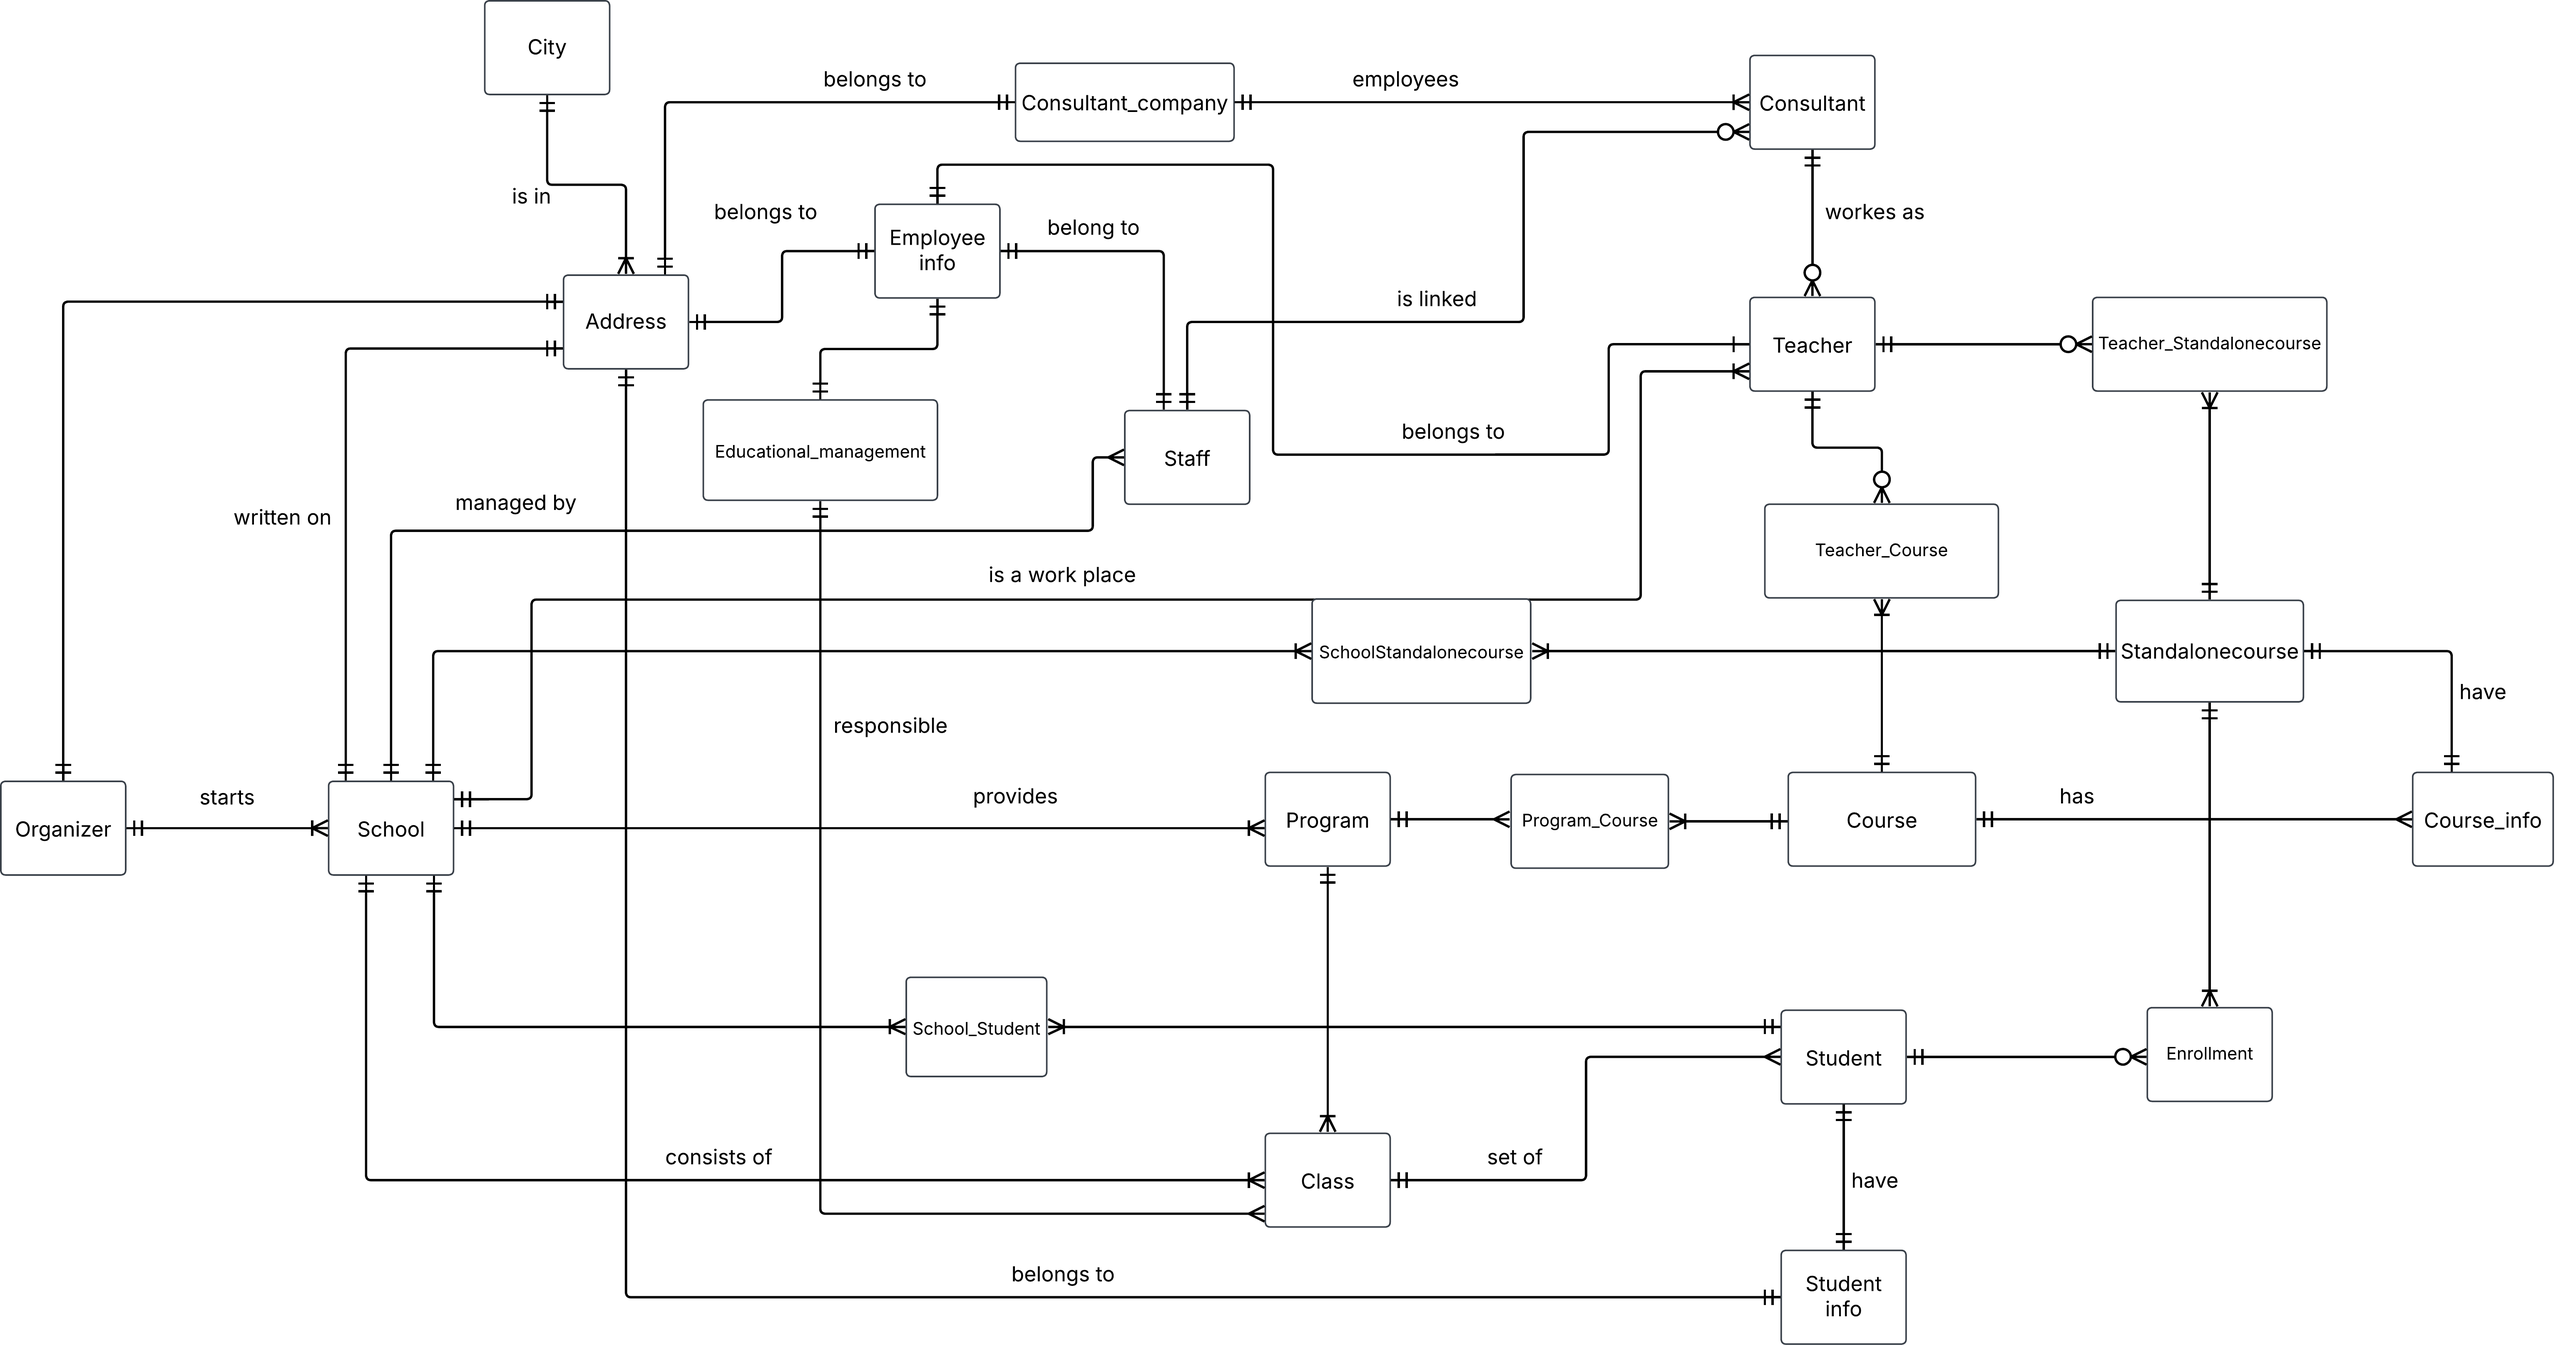
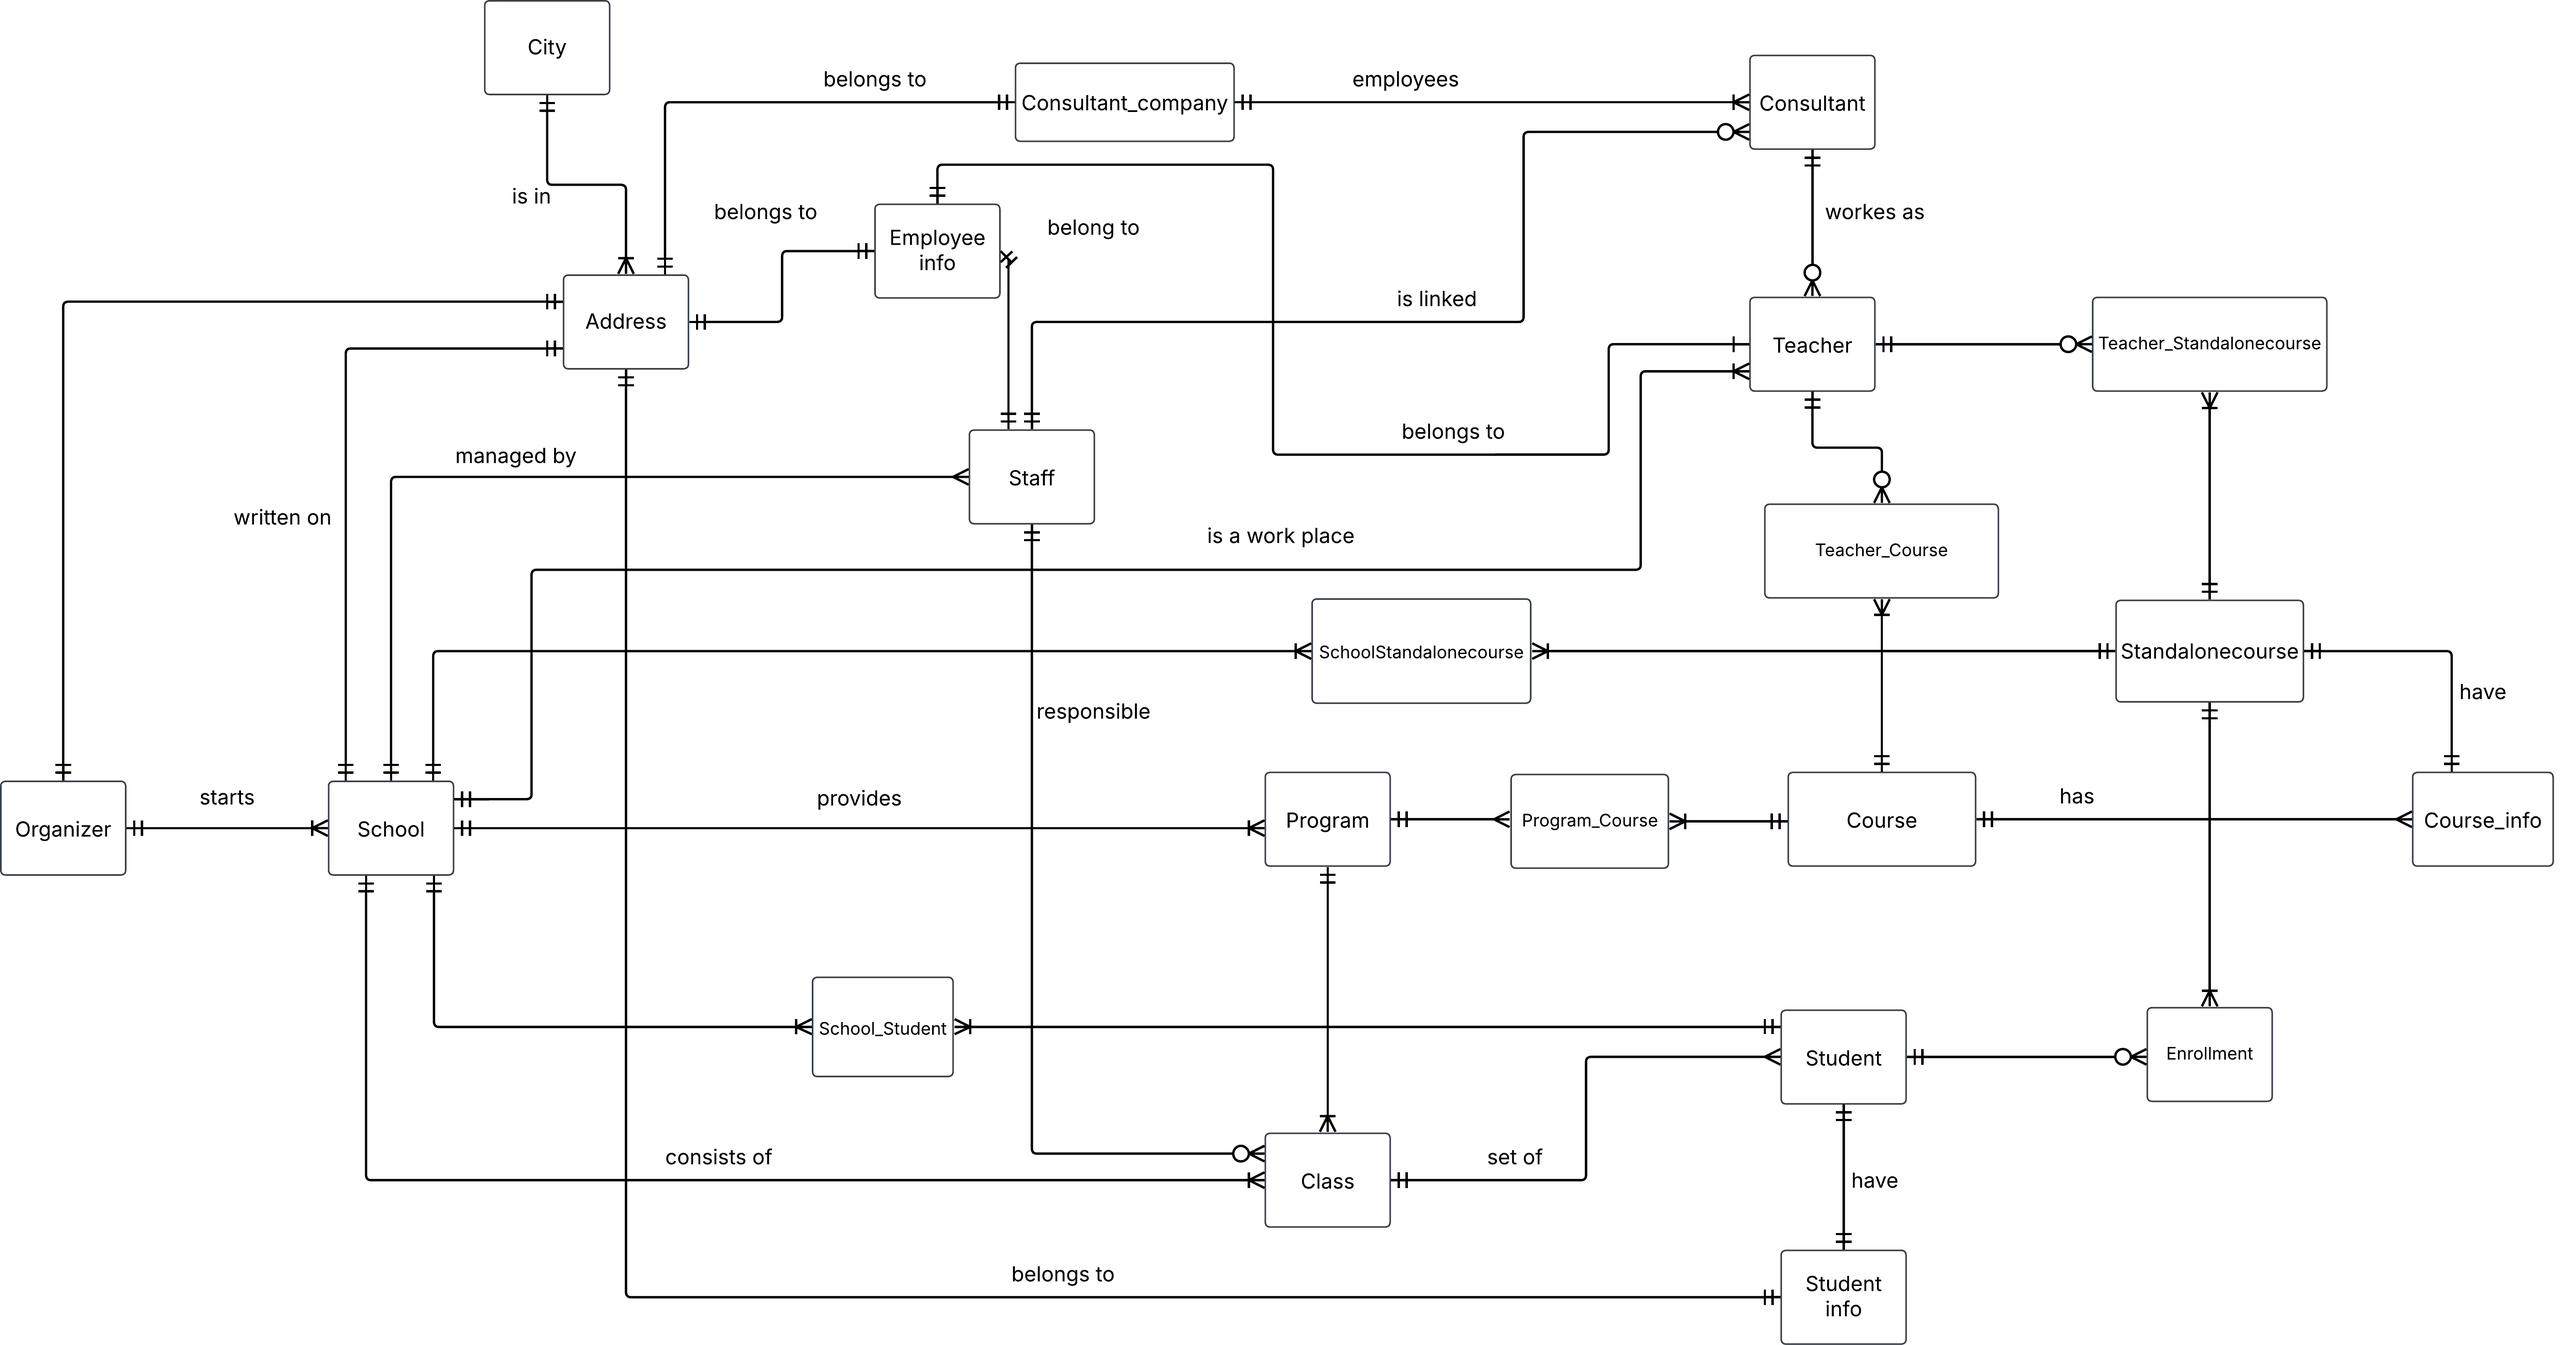
query on the data modeling, some joins

diff --git a/conceptual_model.md b/conceptual_model.md
@@ -43,12 +43,11 @@ each Student `have` one and only one student information, Studen_info can only `
 - Teacher `teaches` in zero, one or more coursers in course_schedule, each  course in Course_schedule `shared with` one or more teachers.
 - Teacher `teaches in` one or more standalonecourses, Standalonecourse `taught` by zero, one or more teachers.
 - a school `is a workplace` for one or more techers, Teacher `work at` one and only one school.  
-- a Educationa_management is `responsible` for more classes, Classes `management` by one onad only one educational_management.
-- a Educationa_management `have` one and only one emloyee_info, Eployee_info `belongs to` one and only one educational_management.  
+  
 
 **Initial conceptual ERD**
 
-<img src = "assets/yh_conceptual_erd.png">
+<img src = "assets/yh_initial_conceptual_erd.png">
 
 
 <br>
@@ -88,7 +87,7 @@ each Student `have` one and only one student information, Studen_info can only `
 - A program can be created without having a class.
 - a class can only belong to one program.
 - student can't be in sevral classes, only in one.
-- Standalonecourse can take student that not are in any classes.
+- Standalonecourse can take student that not are in any classe.
 - Staff can only belong to one school.
 - Student can only use one address, phon number and email.
 - Teacher can only belong to one school.

diff --git a/logical_model.md b/logical_model.md
@@ -123,7 +123,7 @@
 - class_id (PK)
 - class_name
 - program_id (FK)
-- management_id (FK)
+- staff_id (FK)
 - school_id (FK)
 
 
@@ -138,12 +138,6 @@
 - email
 - work_title
 
-
-***Educational_management***
-- management_id (PK)
-- employee_id (FK)
-- first_name
-- last_name
 
 ***Employee_info***
 - employee_id (PK)
@@ -206,9 +200,8 @@
 
 Consultant_company (<u>organization_nr</u>, company_name, f_tax, phone, email, address_id, FK: address_id -> Addrsss)
 
-Employee_info (<u>employee_id</u>,social_security_nr, address_id, salery_per_moth, started, FK: address_id -> Address)
+Employee_info (<u>employee_id</u>,social_security_nr, address_id, salary_per_moth, started, FK: address_id -> Address)
 
-Educational_management (<u>management_id</u>, employee_id, first_name, last_name, phone, email, FK: employee_id -> Employee_info)
 
 Enrollment (<u>enrollment_id</u>, standalonecourse_id, student_id, enrollment_date, grade, FK: standalonecourse_id -> Standalonecourse, FK: student_id -> Student) 
 
